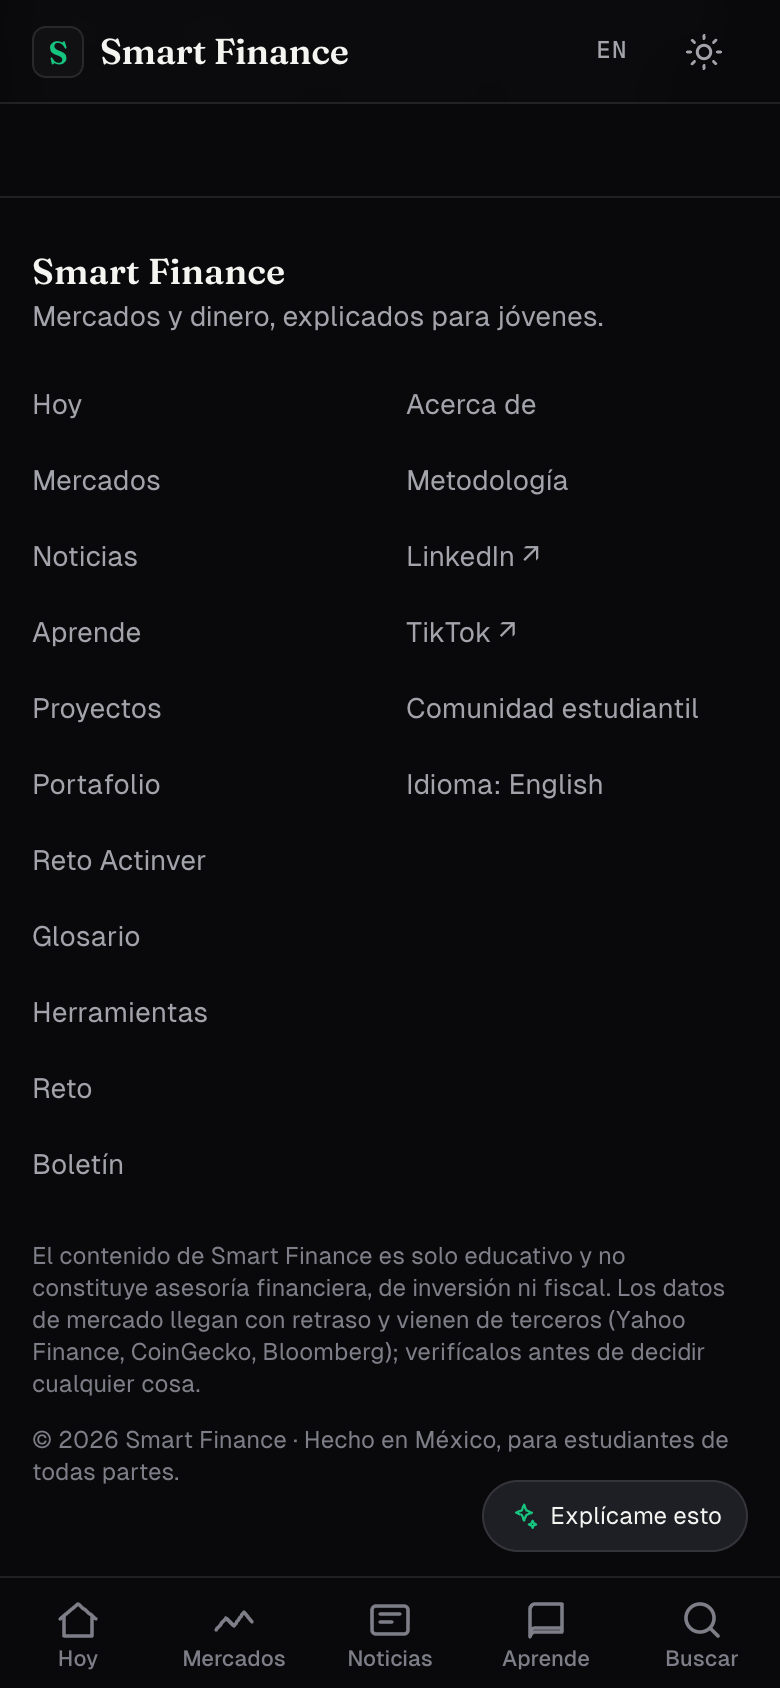
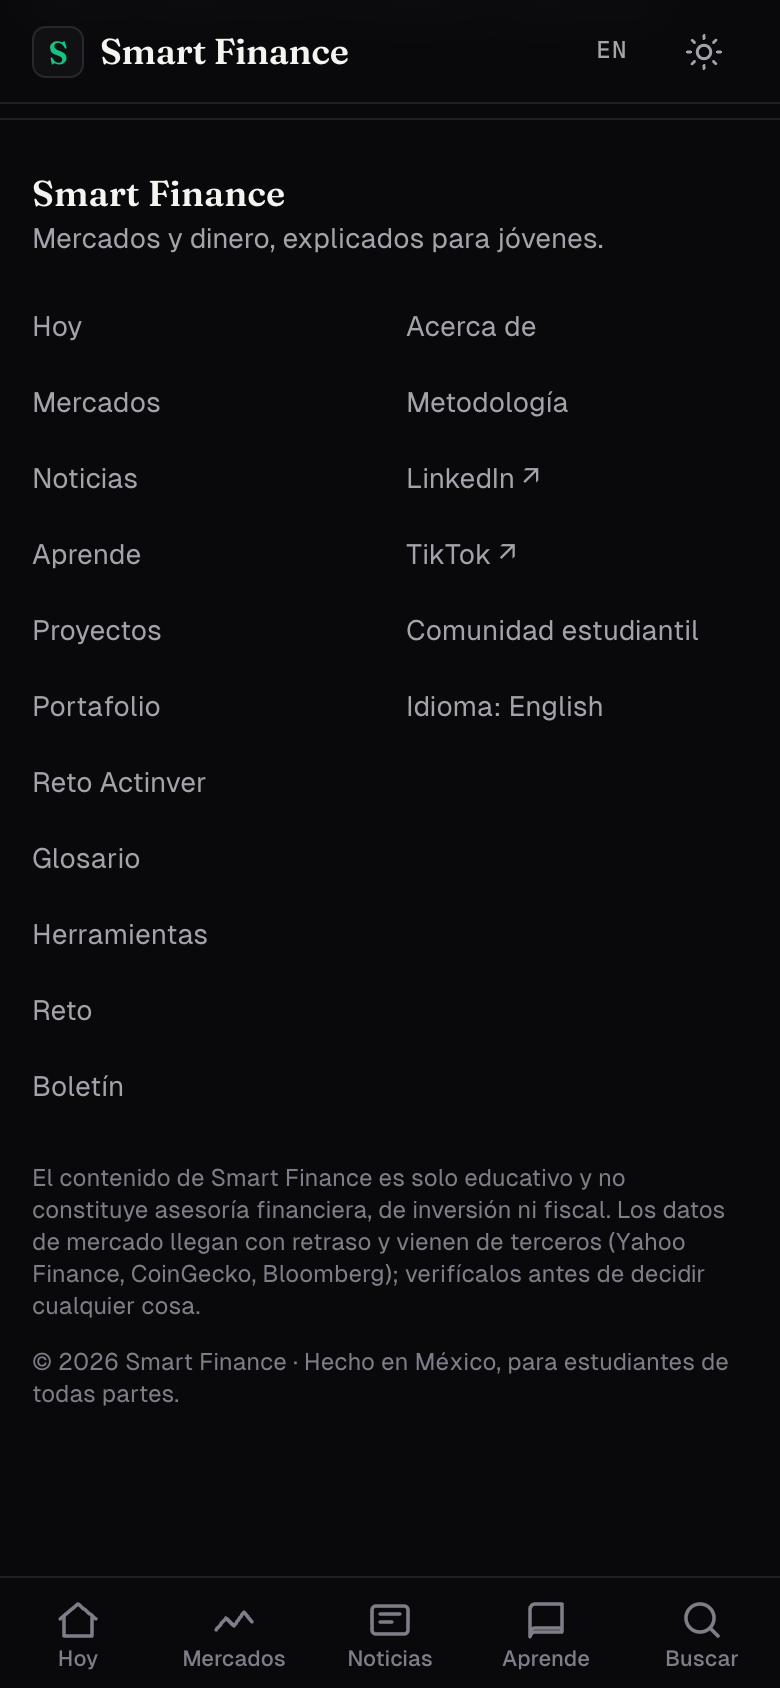
El guion de la IA se carga solo cuando alguien la usa
La hoja pasó a Base.astro, o sea a las 100 páginas, y con ella su código
entró en el paquete de todas: el presupuesto de scripts del home se pasó
por 1,912 bytes y CI se cayó. Es el mismo error que ya se cometió con
los avisos, anotado en CLAUDE.md.

Ahora en el layout queda un arranque de 692 bytes que espera al primer
gesto —tocar un botón de IA o soltar una selección de lectura— y hace un
import() dinámico; los 8,350 bytes del módulo son un trozo aparte que no
se descarga hasta entonces, y el home no lo precarga.

El arranque también mira `selectionchange`, que es lo único que se entera
de una selección hecha con el teclado: sin eso, quien no usa ratón no
llegaba nunca a la burbuja.

Comprobado en el navegador: el chunk no se pide al cargar, el PRIMER
toque abre la hoja con su respuesta, se pide una sola vez y no hay
errores de consola.

diff --git a/src/scripts/ia.ts b/src/scripts/ia.ts
@@ -551,4 +551,23 @@ if (sheet) {
     if (e.shiftKey && document.activeElement === primero) { e.preventDefault(); ultimo.focus(); }
     else if (!e.shiftKey && document.activeElement === ultimo) { e.preventDefault(); primero.focus(); }
   });
+
+  // -- lo que estaba pendiente al cargar ------------------------------------
+  //
+  // Este módulo llega POR DEMANDA: el arranque de AISheet.astro lo importa al
+  // primer gesto y deja escrito en window.__iaPend qué lo provocó (el botón
+  // que se tocó, o la cadena 'sel' si lo que había era una selección). Ese
+  // gesto ya ocurrió antes de que existieran los oyentes de aquí, así que se
+  // atiende ahora o se pierde — y perderlo se vería como un botón que no hace
+  // nada la primera vez que lo tocas.
+  const ventana = window as unknown as { __iaPend?: unknown };
+  const pendiente = ventana.__iaPend;
+  ventana.__iaPend = null;
+  if (pendiente === 'sel') mostrarBurbuja();
+  else if (pendiente instanceof HTMLElement) abrir(pendiente);
 }
+
+// Este archivo no exporta nada: se importa por su efecto. El `export {}` está
+// para que TypeScript lo trate como MÓDULO — sin él, el `import()` del arranque
+// de AISheet.astro falla en `astro check` con "is not a module" (ts 2306).
+export {};
